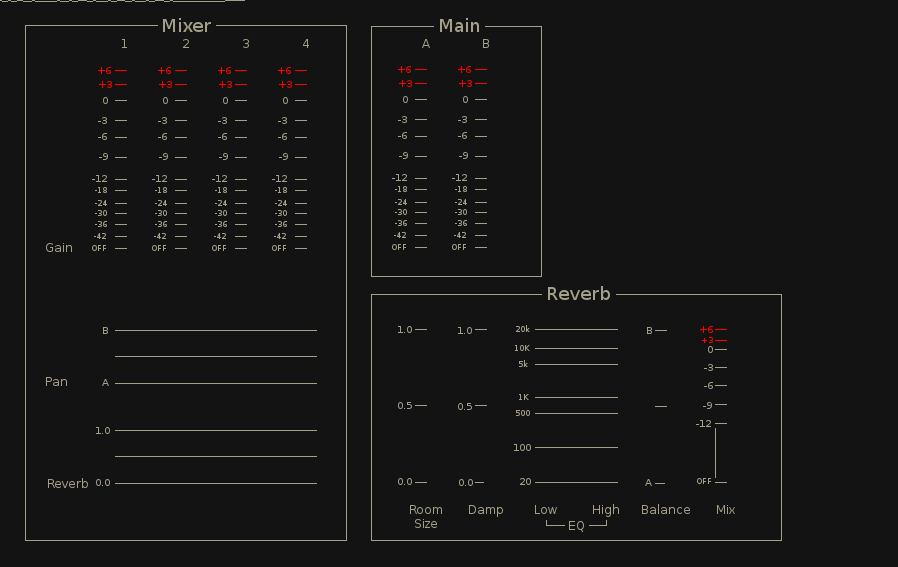
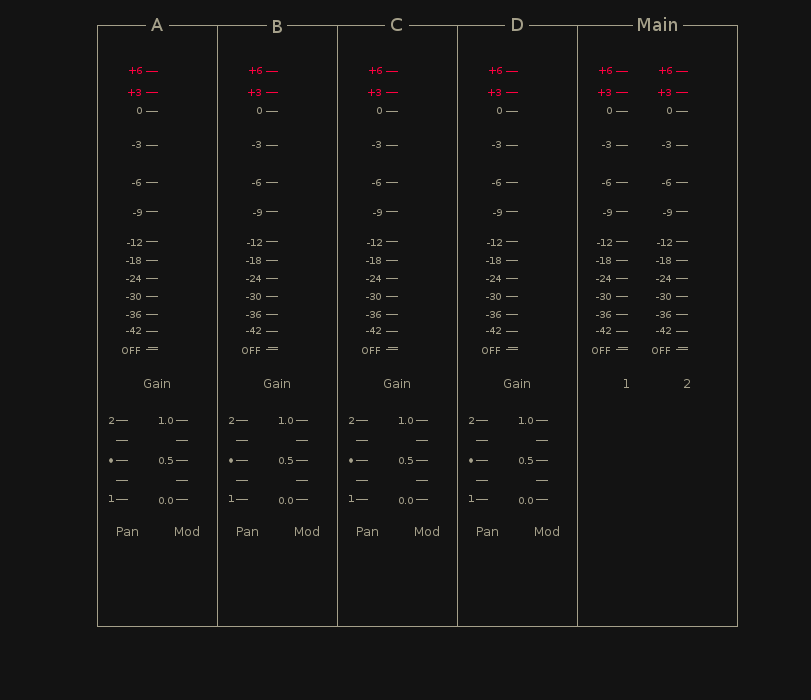
Reimplemented Mixer.
Removed reverb.
Added channel mute buttons.
Added external modulation bus.

diff --git a/llia/synths/mixer/mixer_data.py b/llia/synths/mixer/mixer_data.py
@@ -8,28 +8,26 @@ from llia.performance_edit import performance
 from llia.util.lmath import clip, db_to_amp, amp_to_db
 
 prototype = {
-    "gain1" : 1.0,             # Channel 1 gain (linear)
-    "pan1" : 0.0,              # Channel 1 pan -1 <= pan <= +1
-    "reverb1" : 0.0,           # channel 1 reverb send (0..1)
-    "gain2" : 1.0,
-    "pan2" : 0.0,
-    "reverb2" : 0.0,
-    "gain3" : 1.0,
-    "pan3" : 0.0,
-    "reverb3" : 0.0,
-    "gain4" : 1.0,
-    "pan4" : 0.0,
-    "reverb4" : 0.0,
-    "reverbReturn" : 0.0,      # Reverb return gain 
-    "reverbRoomSize" : 0.25,   # Room size 0 <= size <= 1
-    "reverbLowpass" : 16000,   # Hertz
-    "reverbHighpass" : 40,     # Hertz
-    "reverbDamp" : 0.0,        # Reverb high frequency damping 0 <= damp <= 1
-    "reverbBalance" : 0.0,    # left/right balance  -1 <= balance <= +1
+    "gainA" : 1.0,
+    "muteA" : 0,     # 0 -> enable, 1 -> mute
+    "modA" : 0.0,    # 0 -> no mod, 1 -> 100% modulation
+    "panA" : 0.0,
+    "gainB" : 1.0,
+    "muteB" : 0,
+    "modB" : 0.0,
+    "panB" : 0.0,
+    "gainC" : 1.0,
+    "muteC" : 0,
+    "modC" : 0.0,
+    "panC" : 0.0,
+    "gainD" : 1.0,
+    "muteD" : 0,
+    "modD" : 0.0,
+    "panD" : 0.0,
+    "gain1" : 1,
+    "gain2" : 1}
     
-    "mainAmpA" : 1.0,          # Main out gain 1 
-    "mainAmpB" : 1.0           # Main out gain 2
-}
+
 
 class Mixer(Program):
 
@@ -39,132 +37,52 @@ class Mixer(Program):
 
 program_bank = ProgramBank(Mixer("Init"))
 
-def mixer(slot, name,
-          chan1 = [-99, 0.00, 0.00], # [gain (db), pan, reverb]
-          chan2 = [-99, 0.00, 0.00],
-          chan3 = [-99, 0.00, 0.00],
-          chan4 = [-99, 0.00, 0.00],
-          reverb = {"size" : 0.50,
-                    "damp" : 0.00,
-                    "lowpass" : 20000,
-                    "highpass" : 10,
-                    "balance" : 0.0,
-                    "return" : -99}, #  return in db
-          main = [  0,   0]):       # [out-1 out-2] (db)
 
-    program = Mixer(name)
+def mixer(slot, name,
+          chanA = [-99, 0.0, 0.0, 0],      # [gain(db), mod-depth, pan, mute]
+          chanB = [-99, 0.0, 0.0, 0],
+          chanC = [-99, 0.0, 0.0, 0],
+          chanD = [-99, 0.0, 0.0, 0],
+          main = [0,0]):
+    program=Mixer(name)
     def fill_channel_list(lst):
         acc = []
-        template = (-99, 0.0, 0.0)
-        for i,dflt in enumerate(template):
+        for i,dflt in enumerate([-99.0, 0.0, 0.0, 0]):
             try:
-                v = acc[i]
-            except IndexError:
-                v = dflt
-            if i == 0:
-                v = float(db_to_amp(v))
-            else:
-                v = float(clip(v,0,1))
-            acc.append(v)
+                acc.append(float(lst[i]))
+            except (IndexError,ValueError,TypeError):
+                acc.append(dflt)
         return acc
-
-    def fill_main_list(lst):
-        acc = []
-        template = (0, 0)
-        for i,dflt in enumerate(template):
-            try:
-                v = lst[i]
-            except IndexError:
-                v = dflt
-            acc.append(float(db_to_amp(v)))
-        return acc
-
-    def fill_reverb_dict(d):
-        rs = {"size" : float(clip(d.get("size", 0.5), 0.0, 1.0)),
-              "damp" : float(clip(d.get("damp", 0.0), 0.0, 1.0)),
-              "lowpass" : int(clip(d.get("lowpass", 20000), 10, 20000)),
-              "highpass" : int(clip(d.get("highpass", 10), 10, 20000)),
-              "balance" : float(clip(d.get("balance", 0.0), -1, 1)),
-              "return" : float(db_to_amp(d.get("return", -99)))}
-        return rs
-    
-    chan1 = fill_channel_list(chan1)
-    chan2 = fill_channel_list(chan2)
-    chan3 = fill_channel_list(chan3)
-    chan4 = fill_channel_list(chan4)
-    main = fill_main_list(main)
-    reverb = fill_reverb_dict(reverb)
-    for i, clst in enumerate((chan1, chan2, chan3, chan4)):
-        for j,p in enumerate(("gain","pan","reverb")):
-            param = "p%d" % (i+1,)
-            value = clst[j]
-            program[param] = value
-    program["mainAmpA"] = main[0]
-    program["mainAmpB"] = main[1]
-    for p,q in (("size","reverbRoomSize"),
-                ("damp","reverbDamp"),
-                ("lowpass","reverbLowpass"),
-                ("highpass","reverbHighpass"),
-                ("balance","reverbBalance"),
-                ("return","reverbReturn")):
-        program[q] = reverb[p]
+    def set_channel_params(prefix,chanlist):
+        program["gain%s" % prefix] = db_to_amp(chanlist[0])
+        program["mod%s" % prefix] = chanlist[1]
+        program["pan%s" % prefix] = chanlist[2]
+        program["mute%s" % prefix] = chanlist[3]
+    set_channel_params("A", fill_channel_list(chanA))
+    set_channel_params("B", fill_channel_list(chanB))
+    set_channel_params("C", fill_channel_list(chanC))
+    set_channel_params("D", fill_channel_list(chanD))
+    program["gain1"]=float(db_to_amp(main[0]))
+    program["gain2"]=float(db_to_amp(main[1]))
     program_bank[slot] = program
     return program
-    
+
 
 def pp(program, slot=127):
-    pad = ' '*5
-    pad2 = pad + ' '*10
-    acc = 'mixer(%d, "%s", \n' % (slot, program.name)
-    for c in "1234":
-        acc += '%schan%s = [' % (pad,c)
-        p = "gain%s" % c
-        db = int(amp_to_db(program['gain%s' % c]))
-        pan = float(program['pan%s' % c])
-        rev = float(program['reverb%s' % c])
-        acc += '%+3d, %4.2f, %4.2f],\n' % (db, pan, rev)
-    values = (pad, float(program["reverbRoomSize"]))
-    acc += '%sreverb = {"size" : %4.2f,\n' % values
-    values = (pad2, float(program["reverbDamp"]))
-    acc += '%s"damp" : %4.2f,\n' % values
-    values = (pad2, int(program["reverbLowpass"]))
-    acc += '%s"lowpass"  : %5d,\n' % values
-    values = (pad2, int(program["reverbHighpass"]))
-    acc += '%s"highpass" : %5d,\n' % values
-    values = (pad2, float(program["reverbBalance"]))
-    acc += '%s"balance" : %4.2f,\n' % values
-    values = (pad2, int(amp_to_db(program["reverbReturn"])))
-    acc += '%s"return"   : %+3d},\n' % values
-    values = (pad,
-              int(amp_to_db(program["mainAmpA"])),
-              int(amp_to_db(program["mainAmpB"])))
-    acc += '%smain = [%+3d, %+3d])\n' % values
-    return acc
-
-
+    return ""
+    
 
 mixer(0, "Unity",
-      chan1 = [  0, 0.00, 0.00],
-      chan2 = [  0, 0.00, 0.00],
-      chan3 = [  0, 0.00, 0.00],
-      chan4 = [  0, 0.00, 0.00],
-      reverb = {"size" : 0.50,
-                "damp" : 0.50,
-                "lowpass"  : 20000,
-                "highpass" :    40,
-                "balnace"  : 0.0,
-                "return"   : -99},
-      main = [0, 0])
+      chanA = [0,0,0,0],
+      chanB = [0,0,0,0],
+      chanC = [0,0,0,0],
+      chanD = [0,0,0,0],
+      main = [0,0])
 
-mixer(1, "All OFF",
-      chan1 = [  0, 0.00, 0.00],
-      chan2 = [  0, 0.00, 0.00],
-      chan3 = [  0, 0.00, 0.00],
-      chan4 = [  0, 0.00, 0.00],
-      reverb = {"size" : 0.50,
-                "damp" : 0.50,
-                "lowpass"  : 20000,
-                "highpass" :    40,
-                "balance"  : 0.0,
-                "return"   : -99},
-      main = [-99, -99])
+mixer(1, "MuteAll",
+      chanA = [-99,0,0,1],
+      chanB = [-99,0,0,1],
+      chanC = [-99,0,0,1],
+      chanD = [-99,0,0,1],
+      main = [-99,-99])
+      

diff --git a/llia/synths/mixer/tk/editor.py b/llia/synths/mixer/tk/editor.py
@@ -4,6 +4,7 @@
 from llia.gui.tk.tk_subeditor import TkSubEditor
 import llia.gui.tk.tk_factory as factory
 import llia.gui.tk.control_factory as cf
+from llia.gui.tk.msb import MSB
 
 def create_editor(parent):
     TkMixerPanel(parent)
@@ -17,68 +18,63 @@ class TkMixerPanel(TkSubEditor):
     def __init__(self, editor):
         frame = editor.create_tab(self.NAME)
         frame.config(background=factory.bg())
-        TkSubEditor.__init__(self, frame, editor, self.NAME)
+        canvas = factory.canvas(frame, 811,700,self.IMAGE_FILE)
+        canvas.pack()
+        TkSubEditor.__init__(self, canvas, editor, self.NAME)
         editor.add_child_editor(self.NAME, self)
-        lab_panel = factory.image_label(frame, self.IMAGE_FILE)
-        lab_panel.pack(anchor="nw", expand=False)
+        #lab_panel = factory.image_label(canvas, self.IMAGE_FILE)
+        #lab_panel.pack(anchor="nw", expand=False)
 
         y0 = 60
-        ypan = y0 + 260
-        yrev = ypan + 120
+        ypan = y0 + 350
+        ymod = ypan
+        ymute = ymod + 150
         x0 = 120
-
+        xmain = x0+500
+        
         def fader(chan, x):
             param = "gain%s" % chan
-            s = cf.volume_slider(frame, param, editor)
+            s = cf.volume_slider(canvas, param, editor)
             self.add_control(param,s)
-            s.widget().place(x=x, y=y0, height=200)
+            s.widget().place(x=x, y=y0, height=300)
 
         def panner(chan, x):
             param = "pan%s" % chan
-            s = cf.bipolar_slider(frame,param,editor)
+            s = cf.bipolar_slider(canvas,param,editor)
             self.add_control(param,s)
-            s.widget().place(x=x, y=ypan, height=75)
+            s.widget().place(x=x, y=ypan, height=100)
 
-        def reverb_send(chan, x):
-            param = "reverb%s" % chan
-            s = cf.normalized_slider(frame, param, editor)
+        def mod_depth(chan, x):
+            param = "mod%s" % chan
+            s = cf.normalized_slider(canvas, param, editor)
             self.add_control(param, s)
-            s.widget().place(x=x, y=yrev-19, height=75)
+            s.widget().place(x=x, y=ymod, height=100)
 
-        for i in range(4):
-            chan = "%s" % (i+1,)
-            x = x0 + i * 60
-            fader(chan, x)
-            panner(chan, x)
-            reverb_send(chan, x)
+        for i,prefix in enumerate("ABCD"):
+            chan = "%s" % prefix
+            x = x0 + i * 120
+            x_pan = x
+            x_mod = x+60
+            fader(chan, x+30)
+            panner(chan, x_pan)
+            mod_depth(chan, x_mod)
+            aoff = {'fill' : 'black',
+                    'foreground' : 'gray',
+                    'outline' : 'gray',
+                    'text' : 'Mute'}
+            aon = {'fill' : '#002e00',
+                   'foreground' : 'white',
+                   'outline' : '#096c00',
+                   'text' : 'Mute'}
+            msb_mute = MSB(canvas,"mute%s"%prefix,editor,2)
+            self.add_control("mute%s"%prefix,msb_mute)
+            msb_mute.define_aspect(0,0,aoff)
+            msb_mute.define_aspect(1,1,aon)
+            msb_mute.layout((x+7,ymute))
+            msb_mute.update_aspect()
 
-        x_reverb = x0 + 300
 
-        s_reverb_size = cf.normalized_slider(frame, "reverbRoomSize", editor)
-        s_reverb_damp = cf.normalized_slider(frame, "reverbDamp", editor)
-        s_reverb_lowpass = cf.third_octave_slider(frame, "reverbLowpass", editor)
-        s_reverb_highpass = cf.third_octave_slider(frame, "reverbHighpass", editor)
-        s_reverb_balance = cf.bipolar_slider(frame, "reverbBalance", editor)
-        s_reverb_return = cf.volume_slider(frame, "reverbReturn", editor)
-
-        self.add_control("reverbRoomSize", s_reverb_size)
-        self.add_control("reverbDamp", s_reverb_damp)
-        self.add_control("reverbLowpass", s_reverb_lowpass)
-        self.add_control("reverbHighpass", s_reverb_highpass)
-        self.add_control("reverbReturn", s_reverb_return)
-        self.add_control("reverbBalance", s_reverb_balance)
-
-        s_reverb_size.widget().place(x=x_reverb, y=ypan, height=175)
-        s_reverb_damp.widget().place(x=x_reverb+60, y=ypan, height=175)
-        s_reverb_lowpass.widget().place(x=x_reverb+120, y=ypan, height=175)
-        s_reverb_highpass.widget().place(x=x_reverb+180, y=ypan, height=175)
-        s_reverb_balance.widget().place(x=x_reverb+240, y=ypan, height=175)
-        s_reverb_return.widget().place(x=x_reverb+300, y=ypan, height=175)
-
-        x_main = x_reverb
-        s_main1 = cf.volume_slider(frame,"mainAmpA", editor)
-        s_main2 = cf.volume_slider(frame,"mainAmpB", editor)
-        self.add_control("mainAmpA", s_main1)
-        self.add_control("mainAmpB", s_main2)
-        s_main1.widget().place(x=x_main, y=y0, height=200)
-        s_main2.widget().place(x=x_main+60, y=y0, height=200)
+        for i in range(2):
+            x = xmain + i*60
+            fader(str(i+1), x)
+            

diff --git a/llia/synths/mixer/mixer_proxy.py b/llia/synths/mixer/mixer_proxy.py
@@ -38,9 +38,12 @@ specs["help"] = "Mixer"
 specs["pallet"] = mixer_pallet
 
 
-specs["audio-output-buses"] = [["outbusA","out_0"],
-                               ["outbusB","out_1"]]
-specs["audio-input-buses"] = [["inbus1", "in_0"],
-                              ["inbus2", "in_1"],
-                              ["inbus3", "in_2"],
-                              ["inbus4", "in_3"]]
+specs["audio-output-buses"] = [["outbus1","out_0"],
+                               ["outbus2","out_1"]]
+
+specs["audio-input-buses"] = [["inbusA", "in_0"],
+                              ["inbusB", "in_1"],
+                              ["inbusC", "in_2"],
+                              ["inbusD", "in_3"]]
+
+specs["control-input-buses"] = [["xbus","null_sink"]]
